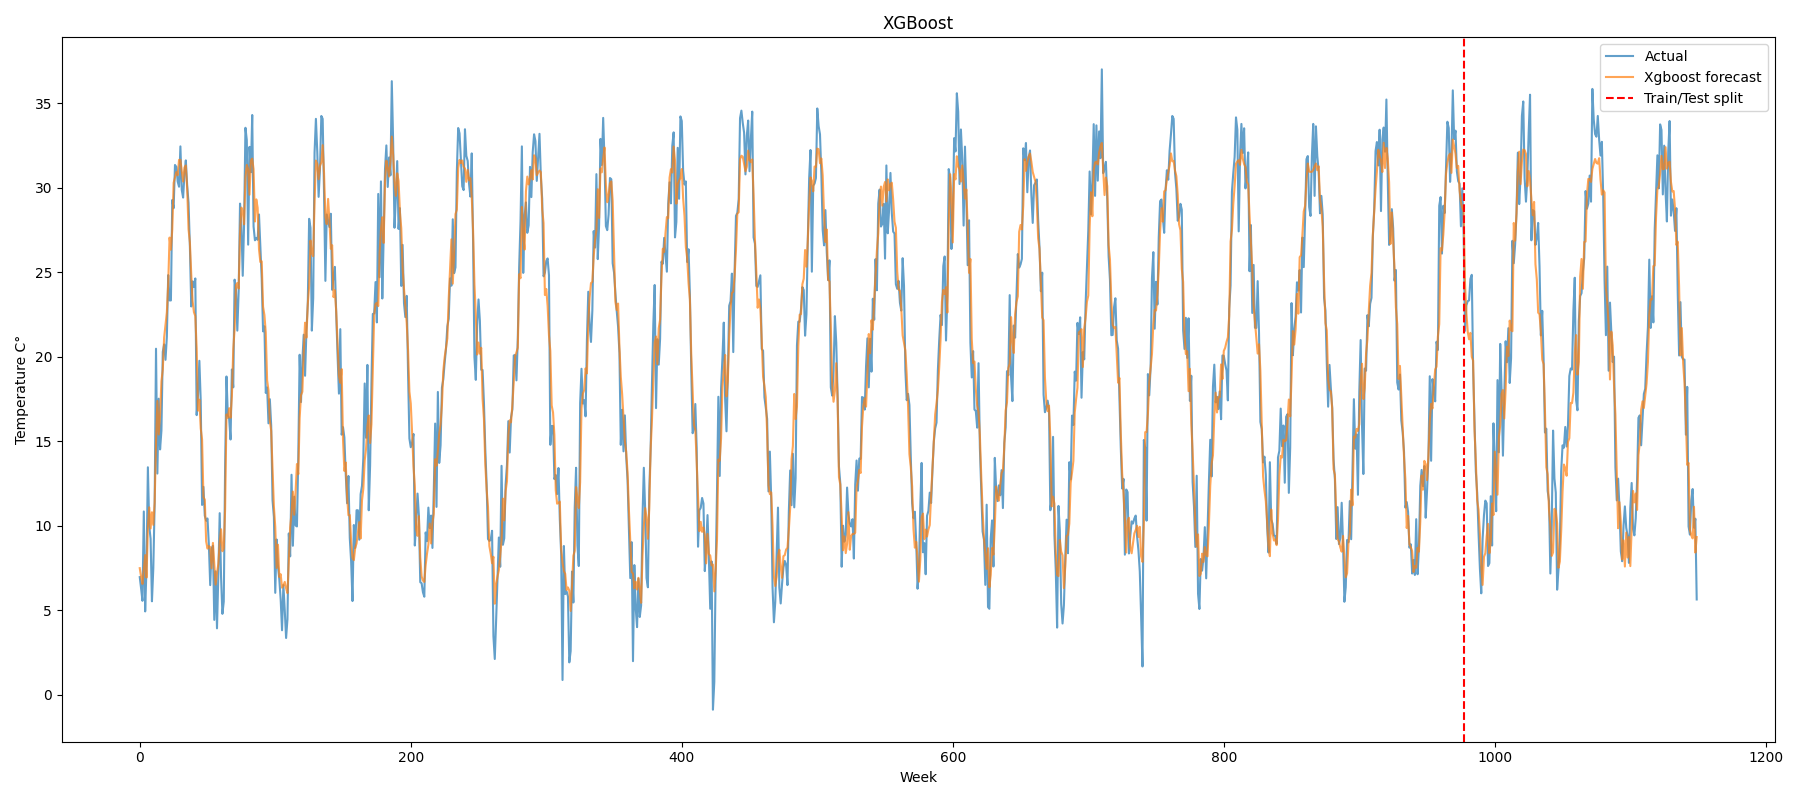
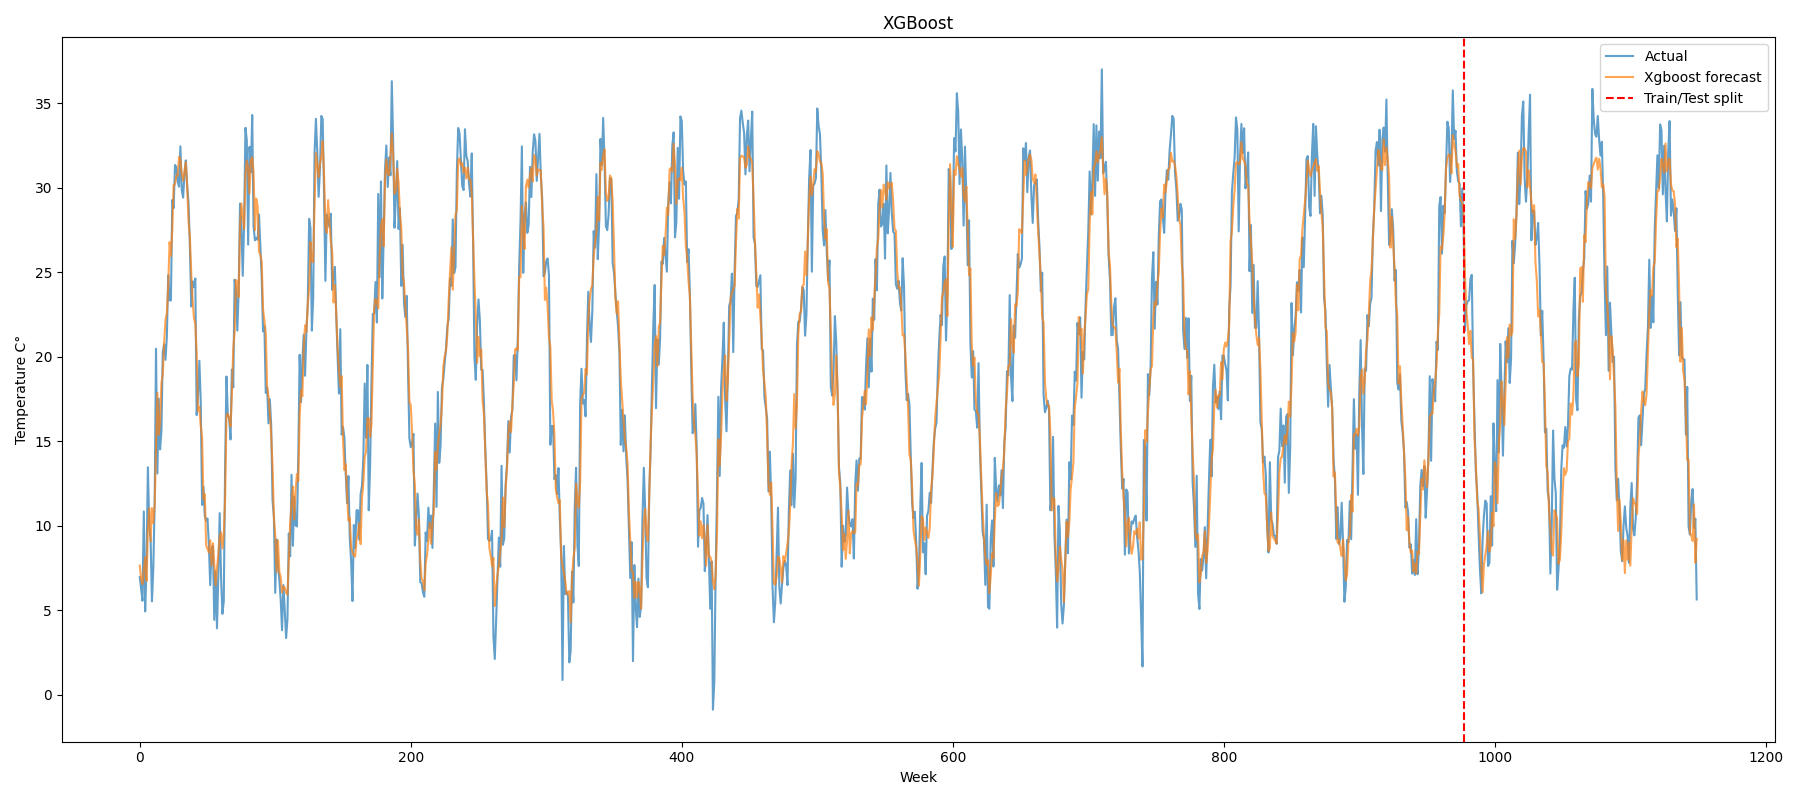
fix: using the already present root_mean_squared_error function

Changed region(s): [[0.8711, 0.2188, 0.9022, 0.25], [0.6222, 0.6562, 0.6533, 0.6875]]

diff --git a/eraclito/project.py b/eraclito/project.py
@@ -10,7 +10,6 @@ import torch
 import torch.nn as nn
 import torch.optim as optim
 from scipy.stats import shapiro
-from sklearn.metrics import mean_squared_error
 from sklearn.metrics import root_mean_squared_error
 from sklearn.preprocessing import StandardScaler
 from statsmodels.tsa.statespace.sarimax import SARIMAX, SARIMAXResults
@@ -80,7 +79,7 @@ def xgb_regressor(X_train, Y_train, X_valid, Y_valid):
         model = XGBRegressor(**params)
         model.fit(X_train, Y_train, eval_set=[(X_valid, Y_valid)], verbose=False, )
         pred_valid = model.predict(X_valid)
-        rmse = np.sqrt(mean_squared_error(Y_valid, pred_valid))
+        rmse = root_mean_squared_error(Y_valid, pred_valid)
         return rmse
 
     study = optuna.create_study(direction="minimize")
